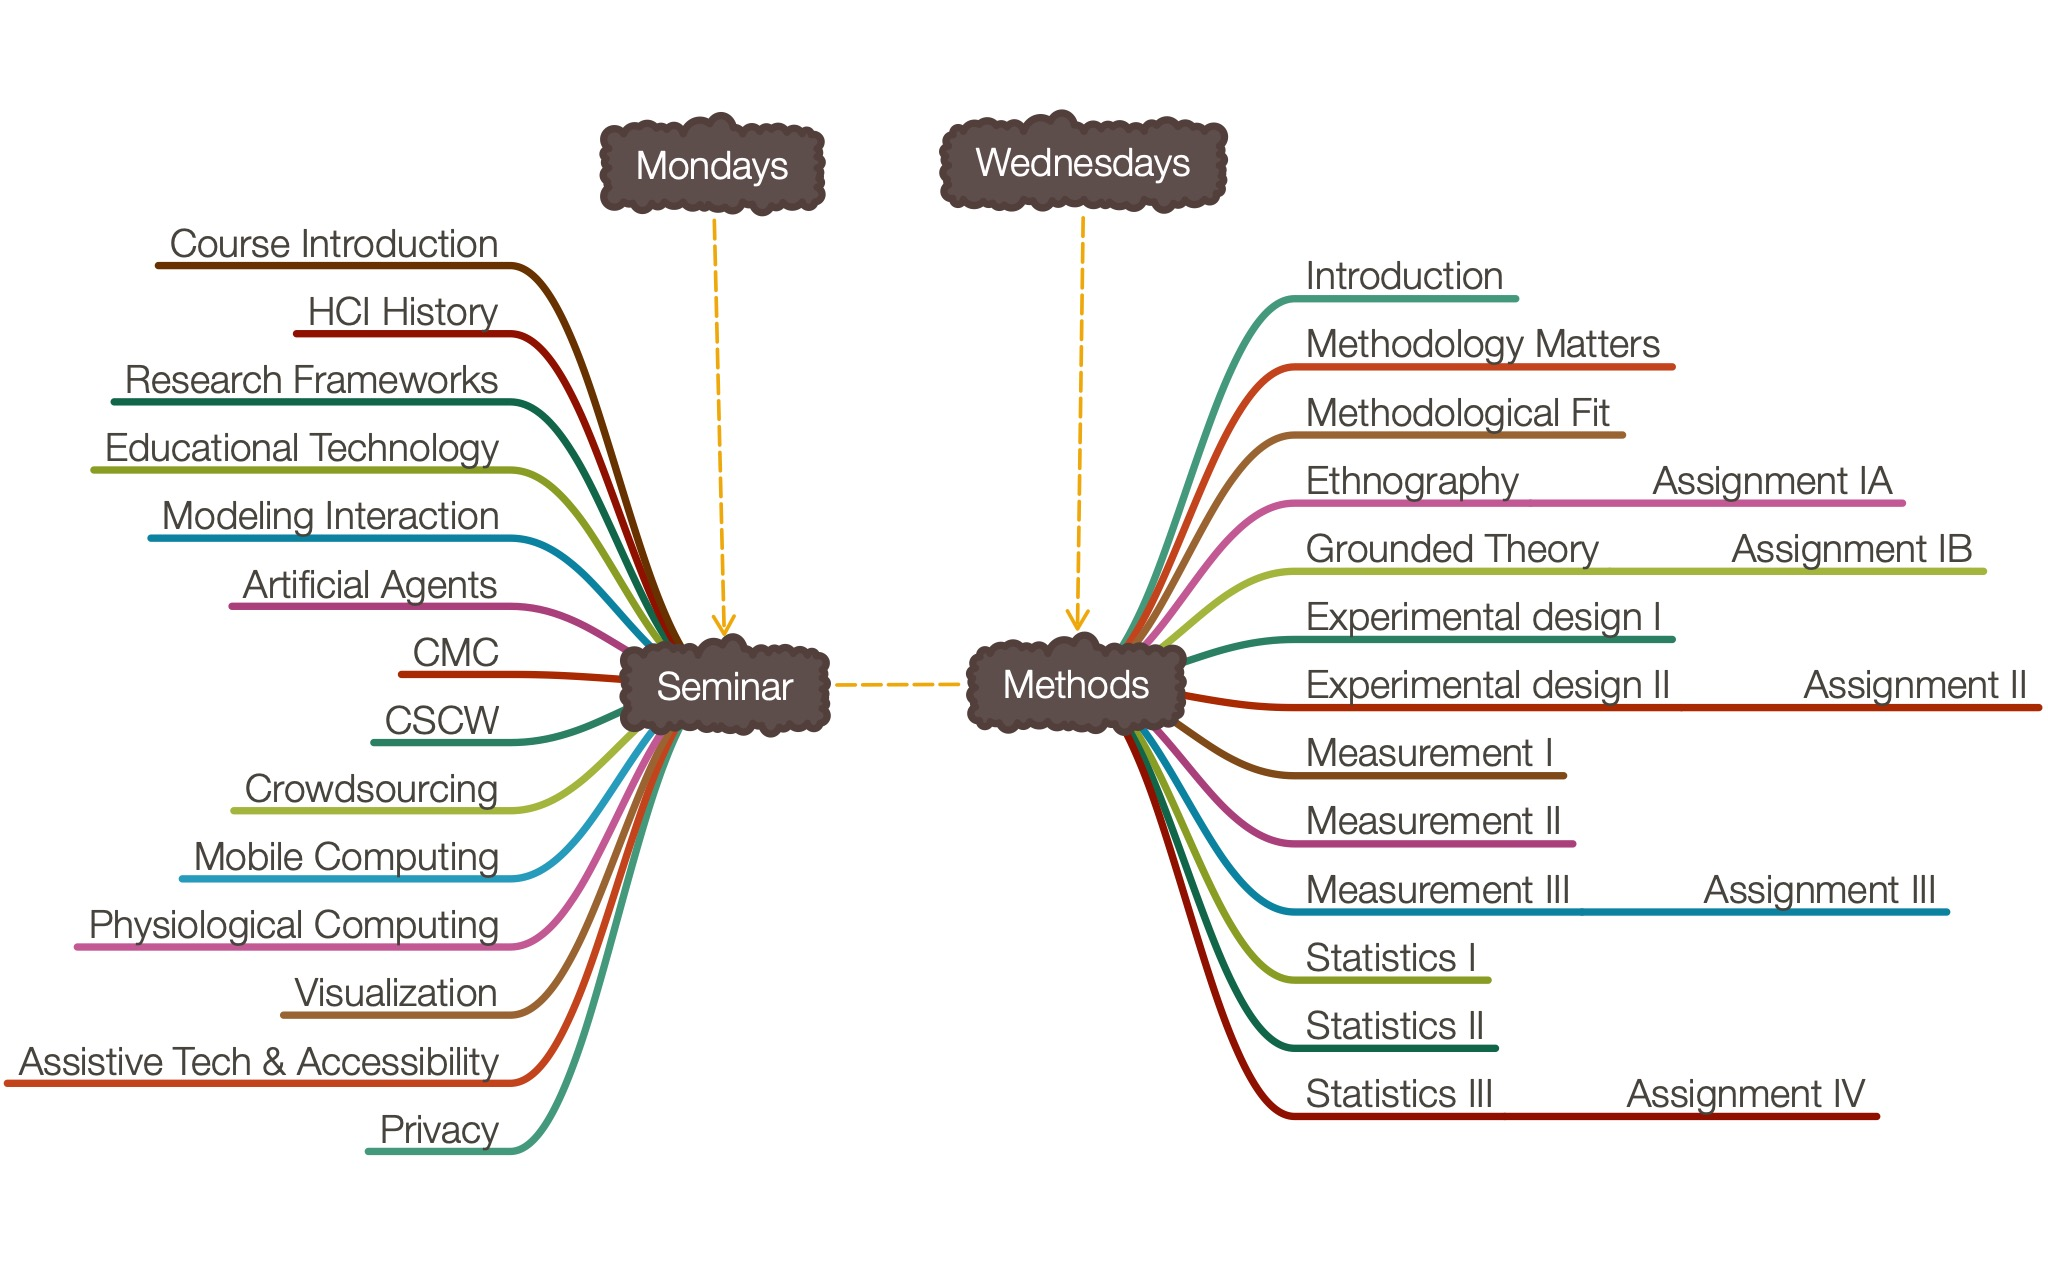
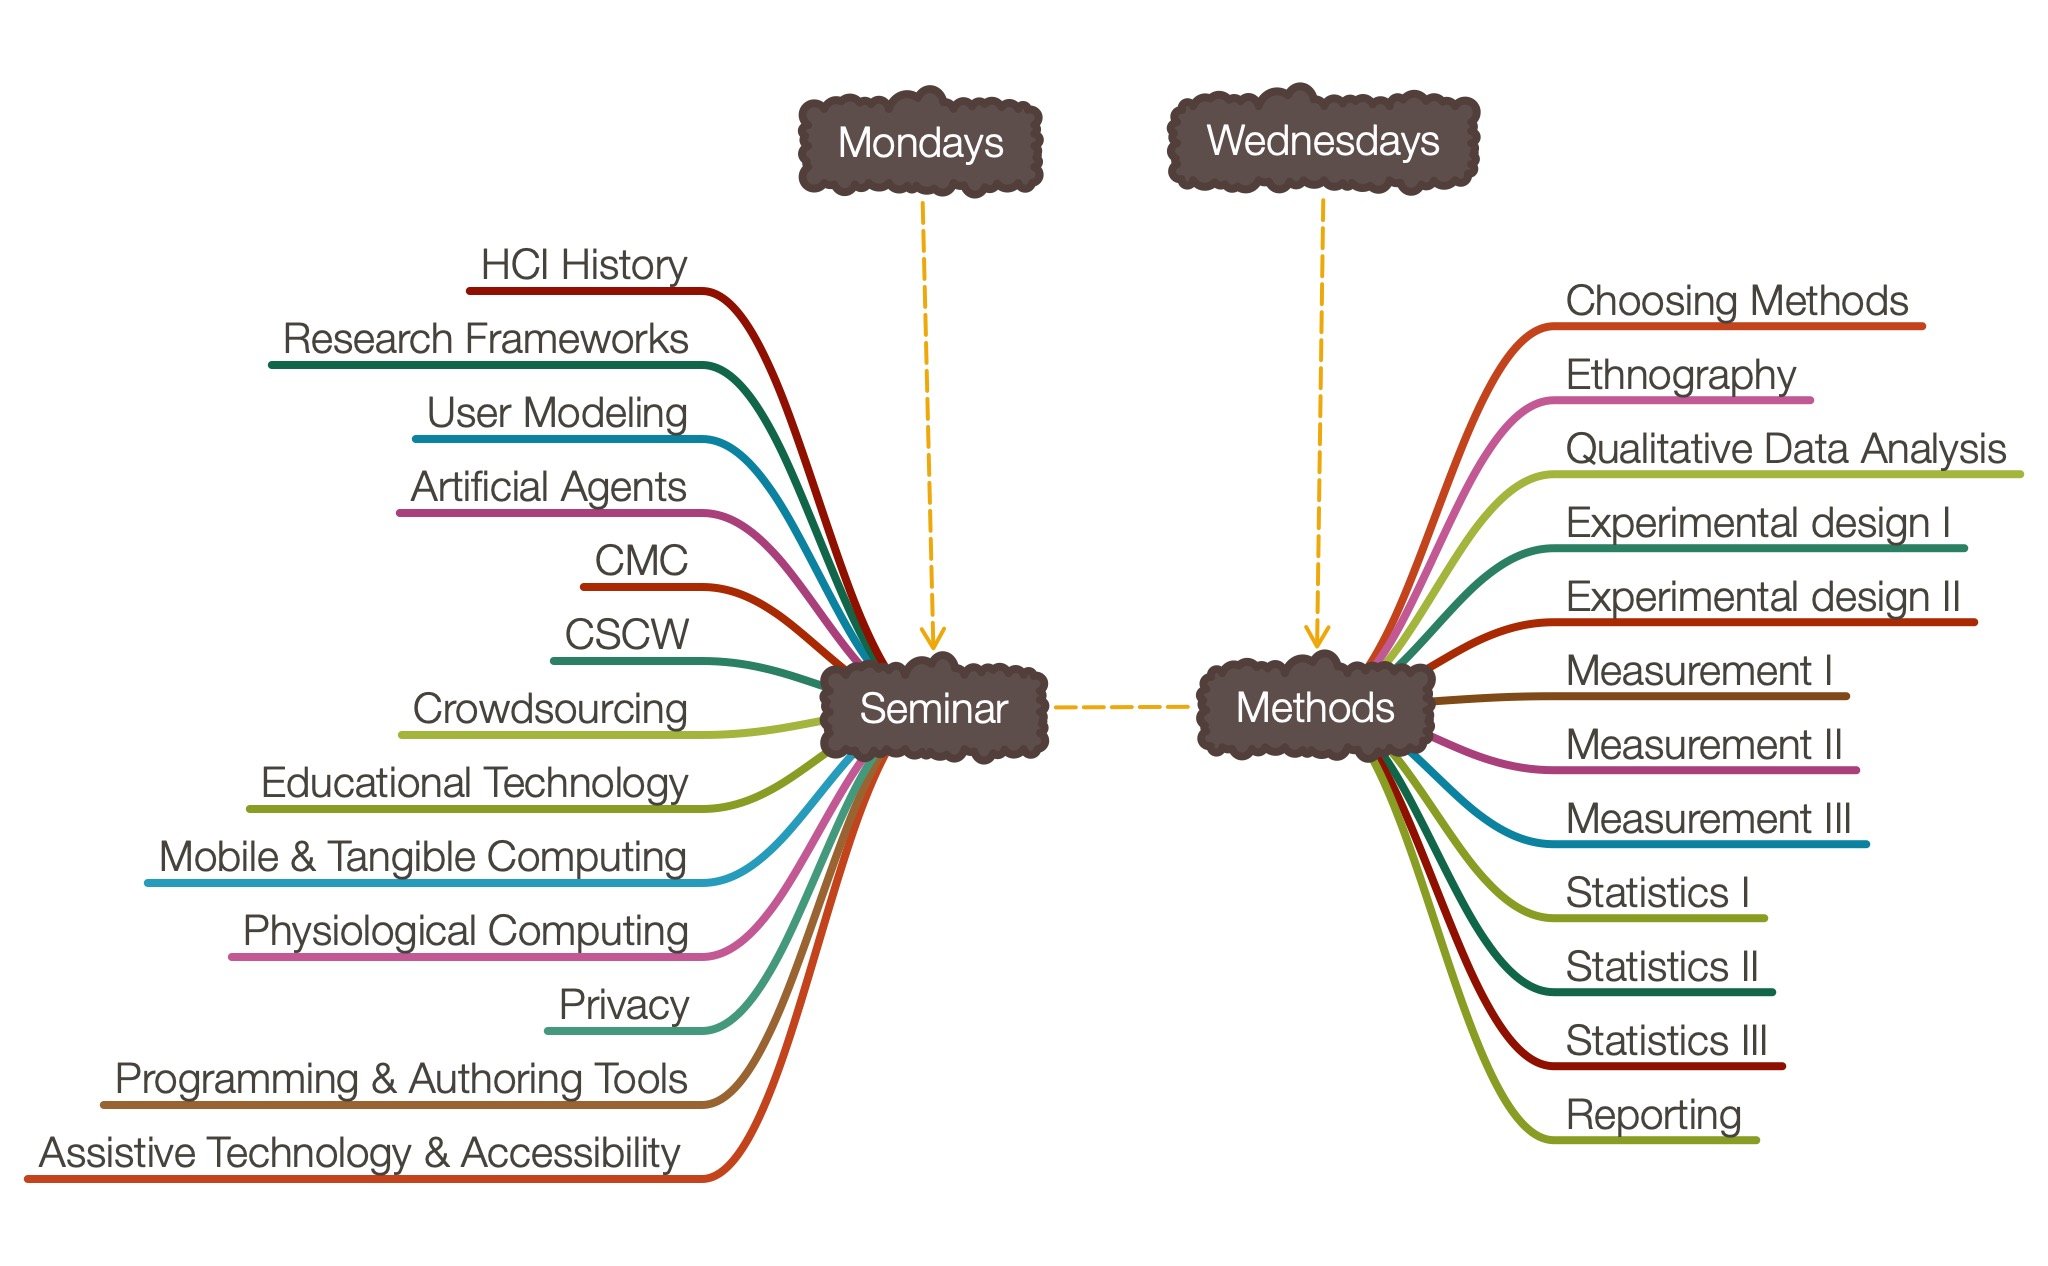
Many changes

Changed region(s): [[0.0, 0.0616, 1.0, 0.955]]

diff --git a/index.md b/index.md
@@ -1,25 +1,26 @@
 ---
-title: Schedule
+title: Overview
+nav_order: 1
 ---
 
-Links to lecture slides, readings, assignments will be posted in the table below by the time of the lecture or the release of the assignment.
+## Welcome to CS-770 Human-Computer Interaction!
 
-| **Seminar** | **Methods** | **Assignments** | **Project** |
-| ------------------------------------------------------------ | ------------------------------------------------ | --------------------------------------- | --------------------------------------------- |
-| *Mondays* | *Wednesdays* | *Due Fridays* | *Due Mondays* |
-| January 20<br />*No class* | January 22<br /><span class="fs-2">[Course Introduction](){: .btn }</span> | | |
-| January 27<br /><span class="fs-2">[History of HCI](){: .btn }</span><br />[R1](){: .label }[R2](){: .label }[R3](){: .label } | January 29<br /><span class="fs-2">[Introduction](){: .btn }</span>        |                                         |                                               |
-| February 03<br /><span class="fs-2">[Research Frameworks](){: .btn }</span>                  | February 05<br /><span class="fs-2">[Choosing Methods](){: .btn }</span>   |                                         | February 03<br /><span class="fs-2">[Topic selection](){: .btn }</span> |
-| February 10<br /><span class="fs-2">[User Modeling](){: .btn }</span>                  | February 12<br /><span class="fs-2">[Ethnography](){: .btn }</span>        |                                         |                                               |
-| February 17<br /><span class="fs-2">[Artificial Agents](){: .btn }</span>                    | February 19<br /><span class="fs-2">[Qualitative analysis](){: .btn }</span>     | February 21<br /><span class="fs-2">[Assignment 1.A](){: .btn }</span>  | February 17<br /><span class="fs-2">[Literature survey](){: .btn }</span>     |
-| February 24<br /><span class="fs-2">[CMC](){: .btn }</span>                                  | February 26<br /><span class="fs-2">[Experimental design I](){: .btn }</span>    | <br /><span class="fs-2">[Assignment 1.B](){: .btn }</span> February 28 |                                               |
-| March 02<br /><span class="fs-2">[CSCW](){: .btn }</span>                                    | March 04<br /><span class="fs-2">[Experimental design II](){: .btn }</span>      |                                         |                                               |
-| March 09<br /><span class="fs-2">[Crowdsourcing](){: .btn }</span>                           | March 11<br /><span class="fs-2">[Measurement I](){: .btn }</span>               | March 13<br /><span class="fs-2">[Assignment 2.A](){: .btn }</span>     | March 09<br /><span class="fs-2">[Method](){: .btn }</span>                   |
-| March 16<br />*Spring break*                                      | March 18<br />*Spring break*                           |                                         |                                               |
-| March 23<br /><span class="fs-2">[Educational Technology](){: .btn }</span>                  | March 25<br /><span class="fs-2">[Measurement II](){: .btn }</span>              |                                         |                                               |
-| March 30<br /><span class="fs-2">[Mobile/Tangible](){: .btn }</span>                         | April 01<br /><span class="fs-2">[Measurement III](){: .btn }</span>             |                                         |                                               |
-| April 06<br /><span class="fs-2">[Physiological Comp.](){: .btn }</span>                 | April 08<br /><span class="fs-2">[Statistics I](){: .btn }</span>                | April 10<br /><span class="fs-2">[Assignment 2.B](){: .btn }</span>     |                                               |
-| April 13<br /><span class="fs-2">[Privacy](){: .btn }</span>                                 | April 15<br /><span class="fs-2">[Statistics II](){: .btn }</span>               |                                         | April 13<br /><span class="fs-2">[Data collection](){: .btn }</span>          |
-| April 20<br /><span class="fs-2">[Authoring Tools](){: .btn }</span>                | April 22<br /><span class="fs-2">[Statistics III](){: .btn }</span>              | April 24<br /><span class="fs-2">[Assignment 2.C](){: .btn }</span>     |                                               |
-| April 27<br /><span class="fs-2">[Accessibility](){: .btn }</span>            | April 29<br /><span class="fs-2">[Reporting](){: .btn }</span>                   |                                         | April 27<br /><span class="fs-2">[Analysis/Results](){: .btn }</span>       |
-|                                                              |                                                  |                                         | May 04<br /><span class="fs-2">[Final paper](){: .btn }</span>                |
+This course is designed to introduce graduate students in computer science, psychology, educational psychology, and other disciplines research topics, principles, and research methods in human-computer interaction (HCI), *an interdisciplinary area concerned with the study of the interaction between humans and interactive computing systems*. Research in HCI looks at major social, cognitive, and physical phenomena surrounding human use of computers with the goal of understanding their impact and creating guidelines for the design and evaluation of software and physical products and services in industry.
+
+The course consists of three modules: (1) **seminar**, which reviews major research topics in HCI through a set of readings, class presentations, and discussions; (2) **methods**, which covers qualitative and quantitative human-subjects research through lectures, tutorials, hands-on activities, and weekly assignments; and (3) **project**, where students complete a semester-long project, usually involving empirical research, that culminates in the writing of a short paper. Below is a visual overview of the topics that will be covered in the seminar and methods modules.
+
+![Screen Shot 2020-01-17 at 10.12.20 AM](figures/Screen Shot 2020-01-17 at 10.12.20 AM.png)
+
+
+
+### Course Resources
+
+<span class="fs-4">[Course Canvas Page](https://canvas.wisc.edu/courses/192620){: .btn }</span>
+
+<span class="fs-4">[Course Piazza Page](http://piazza.com/wisc/spring2020/cspsychedpsych770/home){: .btn }</span>
+
+<span class="fs-4">[Contact Instructor/TA](mailto:hci-class@cs.wisc.edu){: .btn }</span>
+
+<span class="fs-4">[Course Textbook](https://wisconsin-madison.alma.exlibrisgroup.com/view/action/uresolver.do?operation=resolveService&package_service_id=14650690810002122&institutionId=2122&customerId=2120){: .btn }</span>
+
+![32765957. sx318 ](figures/32765957._SX318_.jpg)

diff --git a/schedule.md b/schedule.md
@@ -1,0 +1,26 @@
+---
+title: Schedule
+nav_order: 2
+---
+
+Links to lecture slides, readings, assignments will be posted in the table below by the time of the lecture or the release of the assignment.
+
+| **Seminar** | **Methods** | **Assignments** | **Project** |
+| ------------------------------------------------------------ | ------------------------------------------------ | --------------------------------------- | --------------------------------------------- |
+| *Mondays* | *Wednesdays* | *Due Fridays* | *Due Mondays* |
+| January 20<br />*No class* | January 22<br /><span class="fs-2">[Course Introduction](){: .btn }</span> | | |
+| January 27<br /><span class="fs-2">[History of HCI](){: .btn }</span><br />[R1](){: .label }[R2](){: .label }[R3](){: .label } | January 29<br /><span class="fs-2">[Introduction](){: .btn }</span>        |                                         |                                               |
+| February 03<br /><span class="fs-2">[Research Frameworks](){: .btn }</span>                  | February 05<br /><span class="fs-2">[Choosing Methods](){: .btn }</span>   | February 21<br /><span class="fs-2">[Assignment 0](){: .btn }</span>                                        | February 03<br /><span class="fs-2">[Topic selection](){: .btn }</span> |
+| February 10<br /><span class="fs-2">[User Modeling](){: .btn }</span>                  | February 12<br /><span class="fs-2">[Ethnography](){: .btn }</span>        |                                         |                                               |
+| February 17<br /><span class="fs-2">[Artificial Agents](){: .btn }</span>                    | February 19<br /><span class="fs-2">[Qualitative analysis](){: .btn }</span>     | February 21<br /><span class="fs-2">[Assignment 1.A](){: .btn }</span>  | February 17<br /><span class="fs-2">[Literature survey](){: .btn }</span>     |
+| February 24<br /><span class="fs-2">[CMC](){: .btn }</span>                                  | February 26<br /><span class="fs-2">[Experimental design I](){: .btn }</span>    | <br /><span class="fs-2">[Assignment 1.B](){: .btn }</span> February 28 |                                               |
+| March 02<br /><span class="fs-2">[CSCW](){: .btn }</span>                                    | March 04<br /><span class="fs-2">[Experimental design II](){: .btn }</span>      |                                         |                                               |
+| March 09<br /><span class="fs-2">[Crowdsourcing](){: .btn }</span>                           | March 11<br /><span class="fs-2">[Measurement I](){: .btn }</span>               | March 13<br /><span class="fs-2">[Assignment 2.A](){: .btn }</span>     | March 09<br /><span class="fs-2">[Method](){: .btn }</span>                   |
+| March 16<br />*Spring break*                                      | March 18<br />*Spring break*                           |                                         |                                               |
+| March 23<br /><span class="fs-2">[Educational Technology](){: .btn }</span>                  | March 25<br /><span class="fs-2">[Measurement II](){: .btn }</span>              |                                         |                                               |
+| March 30<br /><span class="fs-2">[Mobile/Tangible](){: .btn }</span>                         | April 01<br /><span class="fs-2">[Measurement III](){: .btn }</span>             |                                         |                                               |
+| April 06<br /><span class="fs-2">[Physiological Comp.](){: .btn }</span>                 | April 08<br /><span class="fs-2">[Statistics I](){: .btn }</span>                | April 10<br /><span class="fs-2">[Assignment 2.B](){: .btn }</span>     |                                               |
+| April 13<br /><span class="fs-2">[Privacy](){: .btn }</span>                                 | April 15<br /><span class="fs-2">[Statistics II](){: .btn }</span>               |                                         | April 13<br /><span class="fs-2">[Data collection](){: .btn }</span>          |
+| April 20<br /><span class="fs-2">[Authoring Tools](){: .btn }</span>                | April 22<br /><span class="fs-2">[Statistics III](){: .btn }</span>              | April 24<br /><span class="fs-2">[Assignment 2.C](){: .btn }</span>     |                                               |
+| April 27<br /><span class="fs-2">[Accessibility](){: .btn }</span>            | April 29<br /><span class="fs-2">[Reporting](){: .btn }</span>                   |                                         | April 27<br /><span class="fs-2">[Analysis/Results](){: .btn }</span>       |
+|                                                              |                                                  |                                         | May 04<br /><span class="fs-2">[Final paper](){: .btn }</span>                |

diff --git a/syllabus.md b/syllabus.md
@@ -1,5 +1,6 @@
 ---
 title: Syllabus
+nav_order: 3
 ---
 
 The most-up-to-date syllabus in [PDF](syllabus/Syllabus-CS-770-S20.pdf) format
